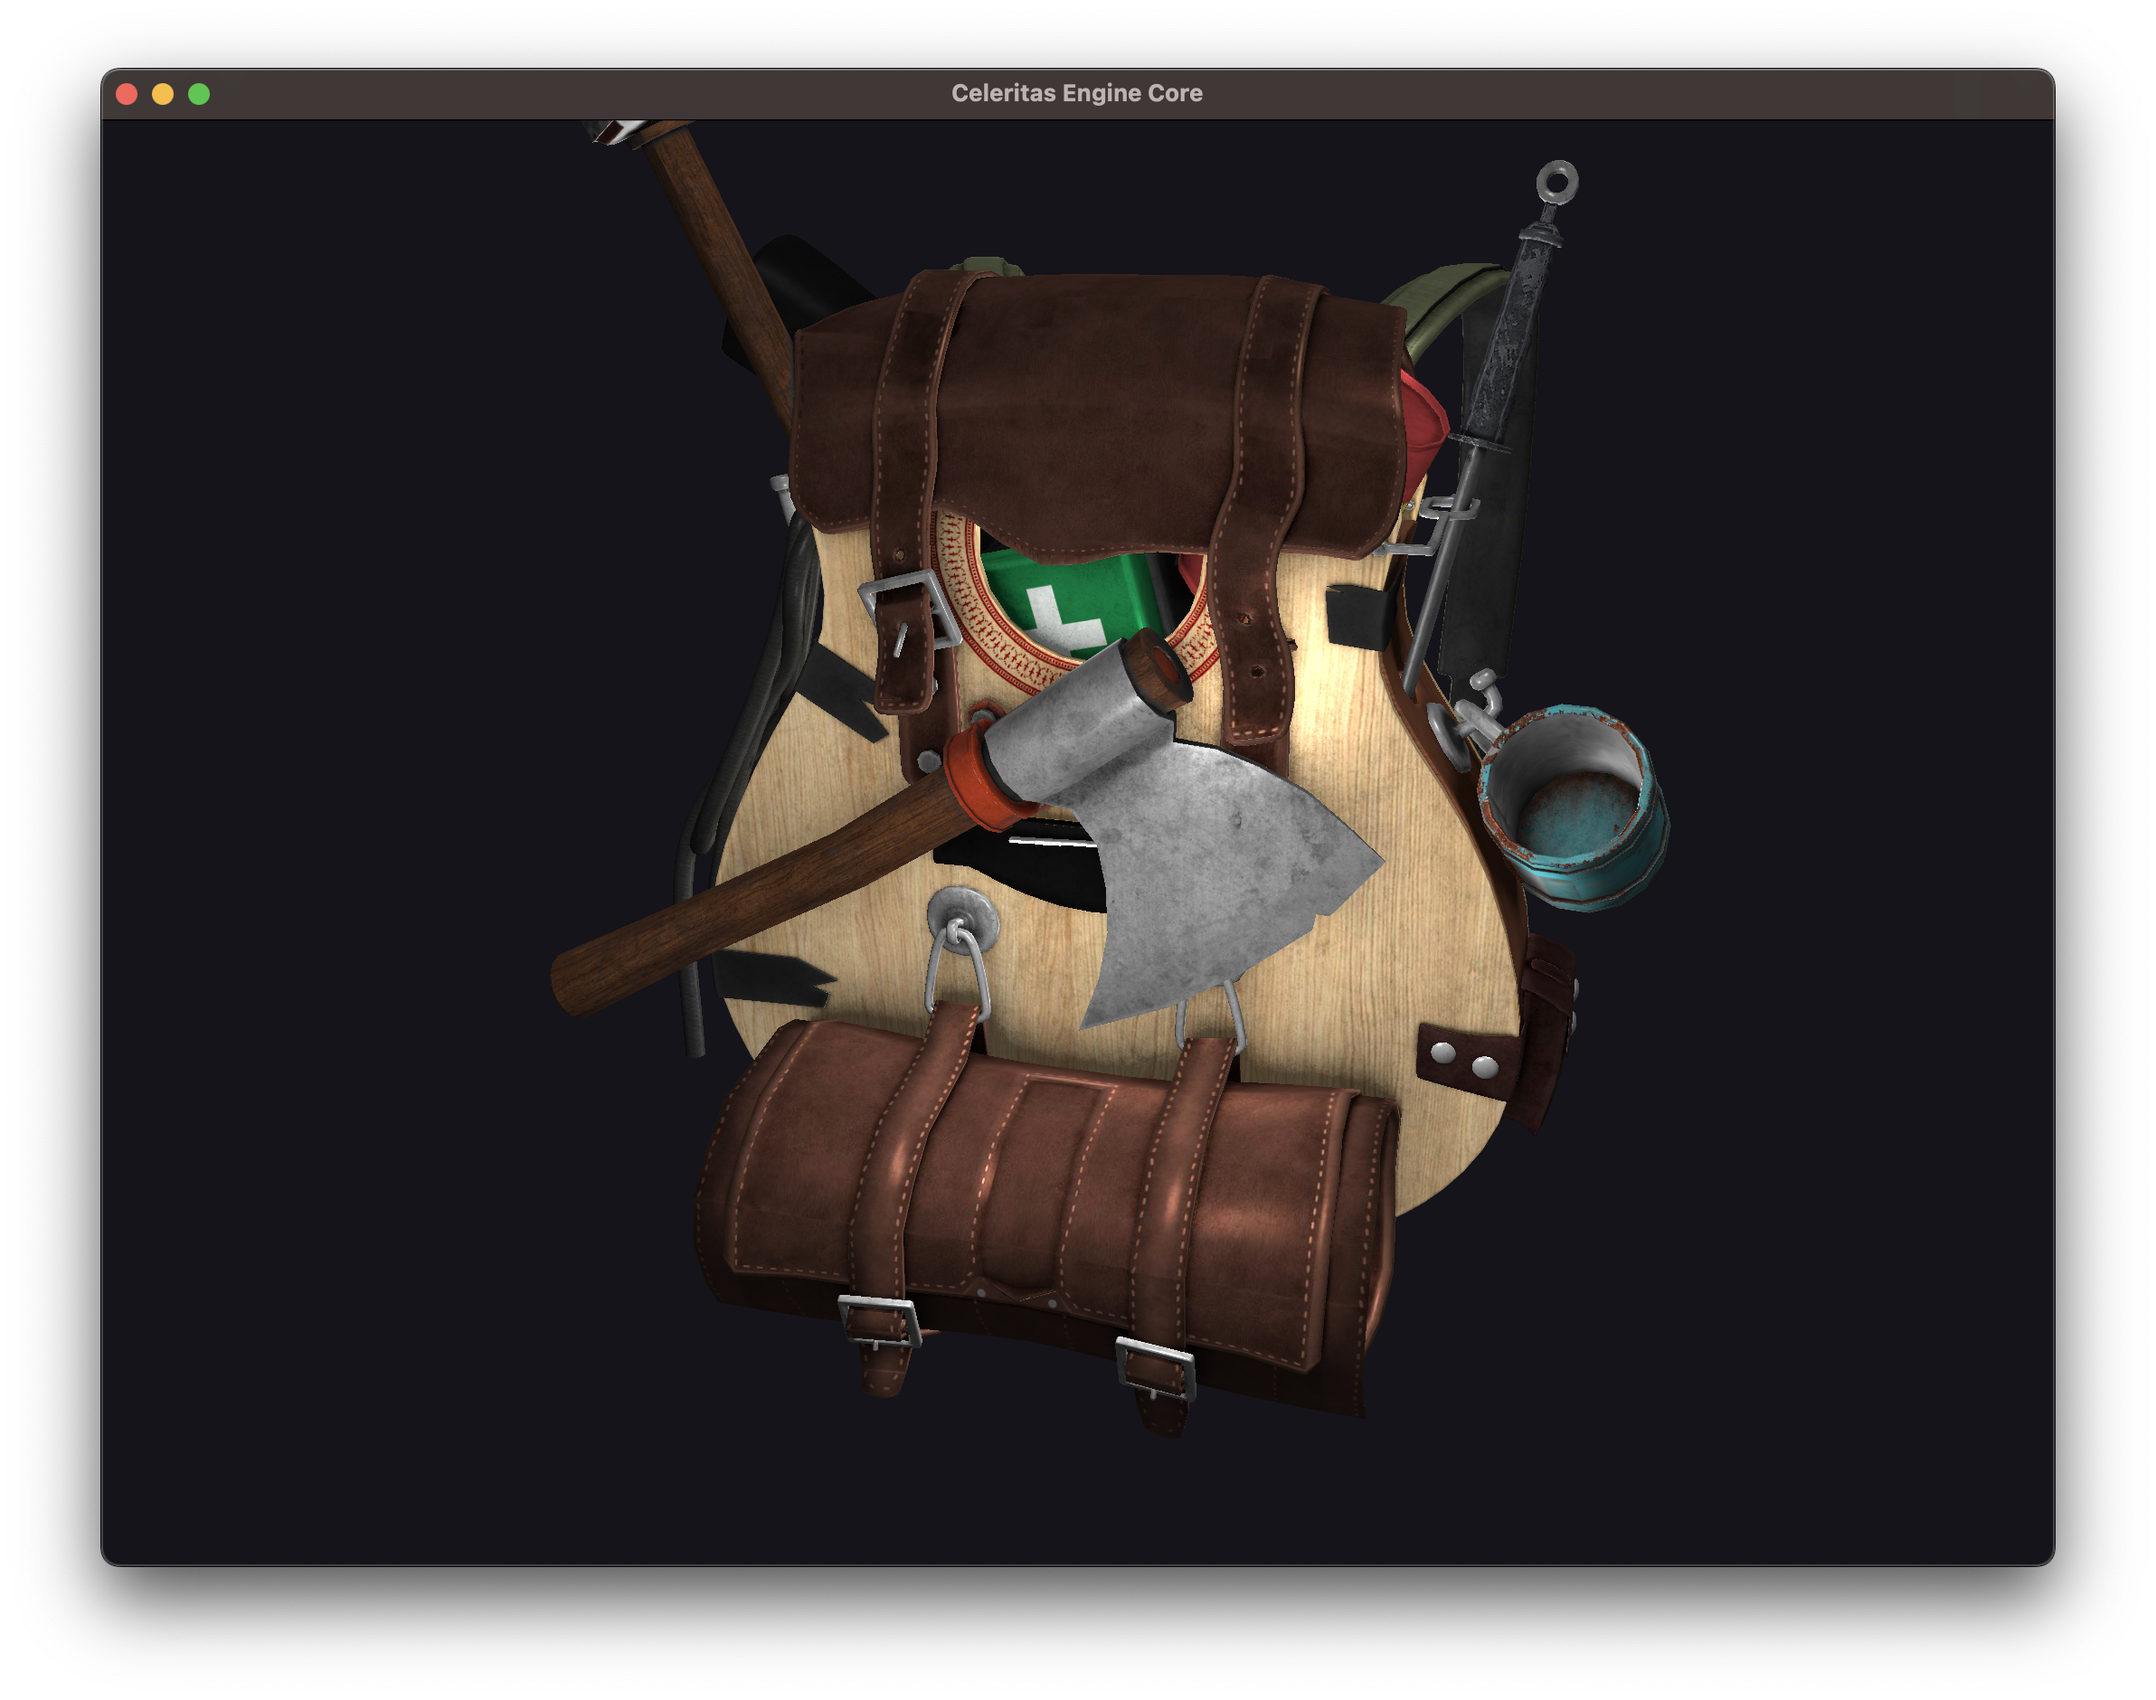
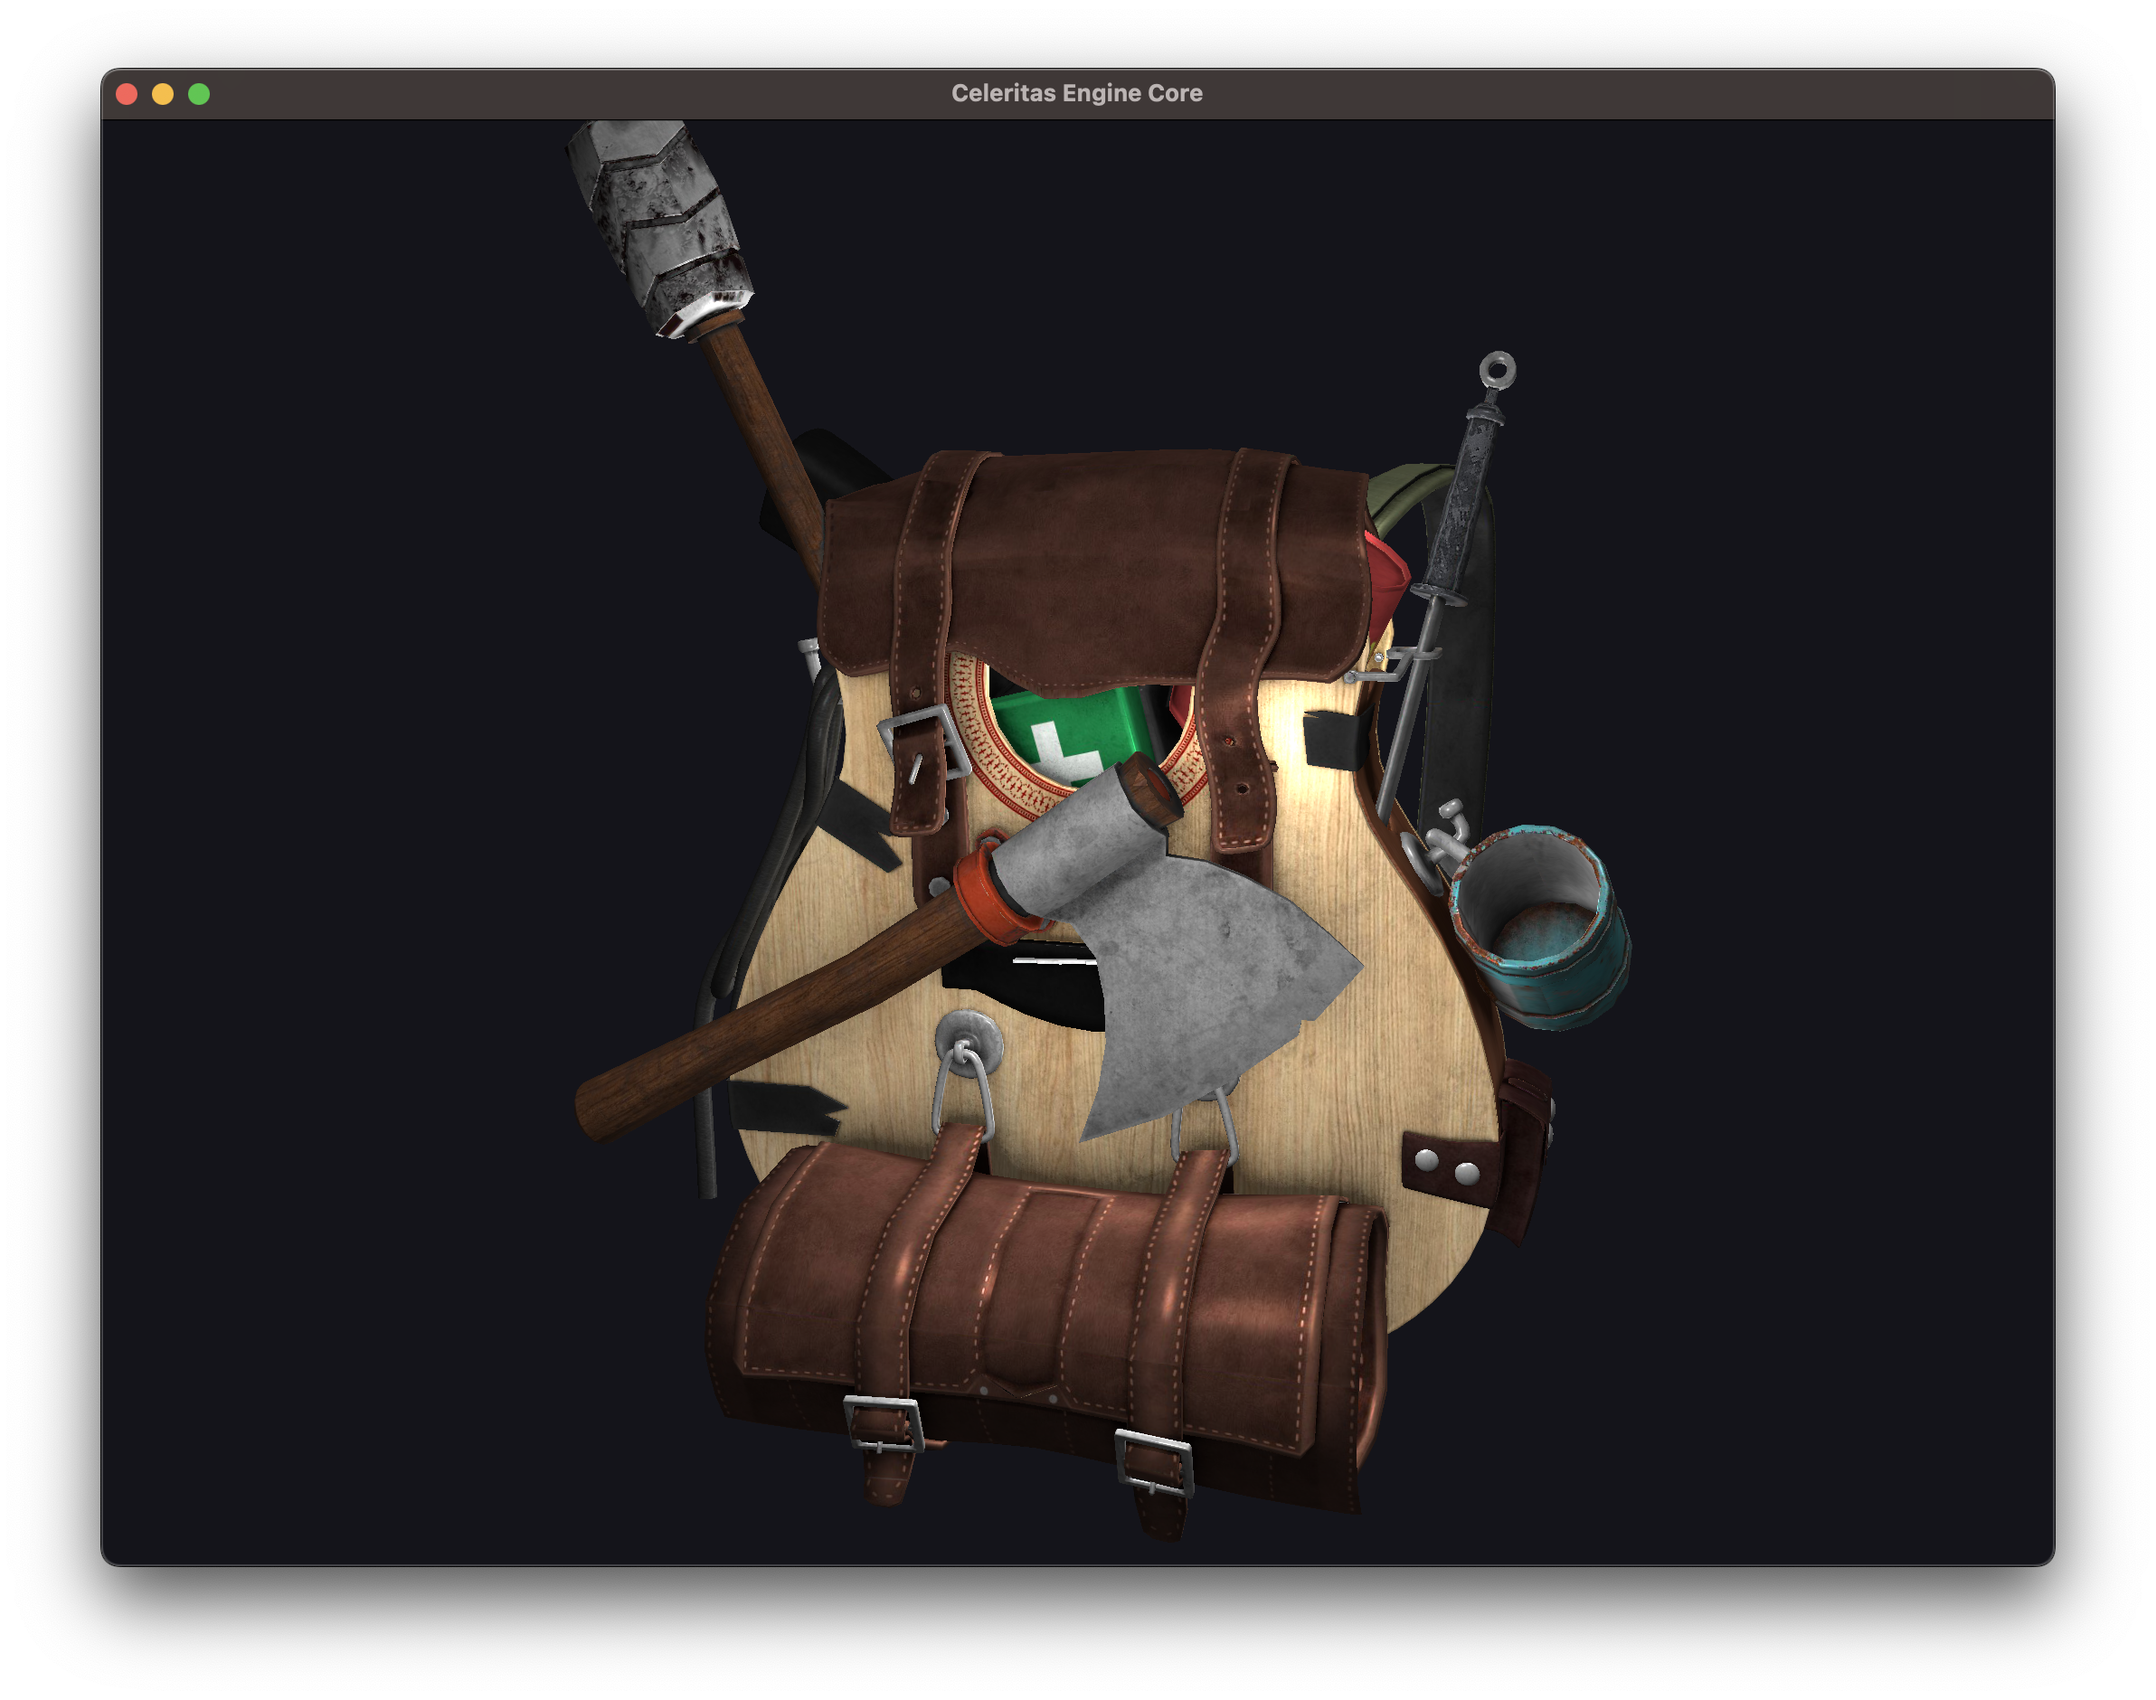
change screenshot

Changed region(s): [[0.2483, 0.0617, 0.776, 0.8947]]

diff --git a/examples/obj_loading/ex_obj_loading.c b/examples/obj_loading/ex_obj_loading.c
@@ -28,7 +28,7 @@ int main() {
   // 2. upload vertex data to gpu
   model_upload_meshes(&core->renderer, backpack);
   // 3. create a camera
-  vec3 camera_pos = vec3(3., 4., 10.);
+  vec3 camera_pos = vec3(3., 2., 10.);
   vec3 camera_front = vec3_normalise(vec3_negate(camera_pos));
   camera cam = camera_create(camera_pos, camera_front, VEC3_Y, deg_to_rad(45.0));
   // 4. create lights
@@ -61,7 +61,7 @@ int main() {
 
     // Draw the backpack
     transform model_tf =
-        transform_create(VEC3_ZERO, quat_ident(), 2.0);  // make the backpack a bit bigger
+        transform_create(vec3(0.0, -0.4, 0.0), quat_ident(), 1.8);  // make the backpack a bit bigger
     draw_model(&core->renderer, &cam, backpack, model_tf, &our_scene);
 
     render_frame_end(&core->renderer);
